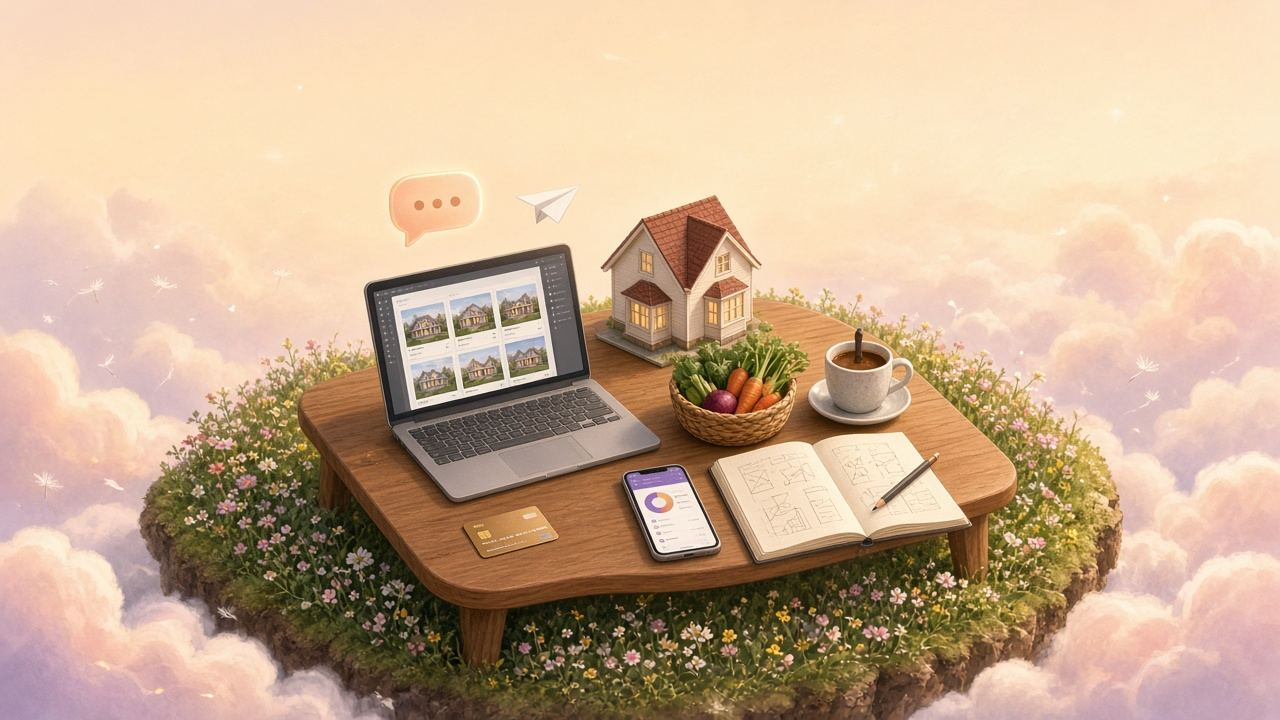
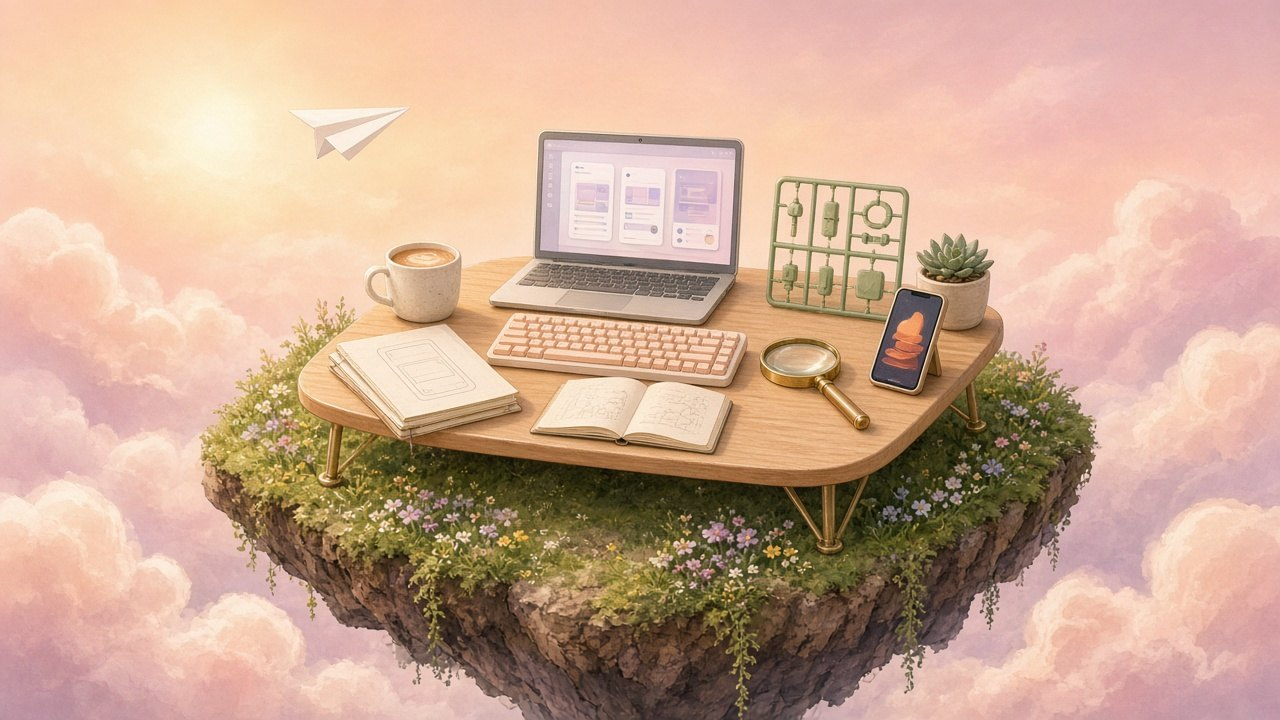
Replace the hero painting and map the ten measured hotspots.
The new desk art fills the hero slot, and each hotspot uses the supplied bounds so the box stays on its object when the scene is scaled or cropped.

diff --git a/index.html b/index.html
@@ -14,7 +14,7 @@
   <meta property="og:image" content="https://suvarnamyneni-project.github.io/assets/art/hero-1280.jpg">
   <meta property="og:image:width" content="1280">
   <meta property="og:image:height" content="720">
-  <meta property="og:image:alt" content="A painted desk on a floating grassy island above the clouds, with a laptop, a house model and a grocery basket.">
+  <meta property="og:image:alt" content="A painted desk on a grassy island under a pink sky, with a laptop, coffee, notebooks, a phone and a plant.">
   <meta property="og:locale" content="en_IN">
   <meta name="twitter:card" content="summary_large_image">
   <meta name="twitter:title" content="Suvarna Myneni, AI-Native UX Designer">
@@ -49,7 +49,7 @@
     .nav-menu { display: flex; align-items: center; gap: 2px; }
     .site-nav a, .nav-toggle { color: #2b3236; text-decoration: none; font: 500 .875rem/1 Switzer, sans-serif; padding: 7px 14px; border-radius: 999px; background: transparent; border: 0; }
     .nav-contact, .nav-toggle, .nav-cv, .nav-cv[hidden] { display: none; }
-    html .hero-stage { position: relative; height: 100vh; height: 100dvh; overflow: hidden; background: #fbf6ee; color: #2b3236; }
+    html .hero-stage { position: relative; height: 100vh; height: 100dvh; overflow: hidden; background: #f1c0af; color: #2b3236; }
     html .scene, html .scene-bob, html .scene-tilt, html .scene-shift, html .scene picture, html .hero-scrim { position: absolute; inset: 0; width: 100%; height: 100%; }
     html .scene img { position: absolute; inset: 0; width: 100%; height: 100%; max-width: none; aspect-ratio: 16 / 9; object-fit: cover; object-position: center center; }
     html .hero-copy { position: absolute; z-index: 3; display: block; grid-template-columns: none; left: 50%; right: auto; transform: translateX(-50%); width: min(920px, calc(100% - 48px)); top: calc(env(safe-area-inset-top) + 104px); text-align: center; }
@@ -71,17 +71,16 @@
     .hover-hint { left: 50%; bottom: calc(108px + env(safe-area-inset-bottom)); transform: translateX(-50%); margin: 0; padding: 7px 12px; border-radius: 999px; font-size: .8rem; font-weight: 600; line-height: 1.2; white-space: nowrap; width: max-content; }
     html.is-stack .scene-bob { animation: none !important; }
     .hotspot { position: absolute; }
-    html .hotspot-laptop { left: 42.2%; top: 40.5%; width: 14.5%; height: 7.6%; }
-    html .hotspot-keys { left: 41.4%; top: 48%; width: 16.2%; height: 6.8%; z-index: 5; }
-    html .hotspot-house { left: 61.5%; top: 36.5%; width: 15.5%; height: 26%; }
-    html .hotspot-chat { left: 66%; top: 32.5%; width: 12%; height: 14%; z-index: 4; }
-    html .hotspot-basket { left: 21.5%; top: 46%; width: 12.5%; height: 20.5%; }
-    html .hotspot-phone { left: 14.5%; top: 44%; width: 9%; height: 16.5%; }
-    html .hotspot-card { left: 74%; top: 51%; width: 9%; height: 15.5%; z-index: 3; }
-    html .hotspot-sketch { left: 44%; top: 57.5%; width: 18%; height: 15.5%; }
-    html .hotspot-coffee { left: 32%; top: 57%; width: 11.5%; height: 11.5%; z-index: 4; }
-    html .hotspot-plants { left: 75.5%; top: 56%; width: 14%; height: 16%; }
-    html .hotspot-plane { left: 16.5%; top: 4.5%; width: 12.5%; height: 12%; }
+    html .hotspot-plane { left: 22.5%; top: 14%; width: 9.7%; height: 8%; }
+    html .hotspot-laptop { left: 38%; top: 18%; width: 20%; height: 26%; }
+    html .hotspot-keys { left: 38%; top: 43.4%; width: 20.4%; height: 10.1%; z-index: 5; }
+    html .hotspot-coffee { left: 28.3%; top: 33.3%; width: 7.8%; height: 11.5%; z-index: 4; }
+    html .hotspot-sketch { left: 25.6%; top: 44.8%; width: 15.2%; height: 16.2%; }
+    html .hotspot-notebook { left: 41.5%; top: 52%; width: 15.6%; height: 11%; z-index: 4; }
+    html .hotspot-glass { left: 59.3%; top: 46.5%; width: 8.7%; height: 13.5%; z-index: 4; }
+    html .hotspot-kit { left: 59.8%; top: 24.3%; width: 11.3%; height: 20%; }
+    html .hotspot-phone { left: 67.9%; top: 39.6%; width: 6%; height: 15.3%; z-index: 5; }
+    html .hotspot-plant { left: 71.5%; top: 32%; width: 6.1%; height: 14%; z-index: 4; }
     .hero-spacer { display: none; }
     .unfold, .veil, .hotspots, .seed-field { position: absolute; inset: 0; pointer-events: none; }
     html.is-stack #unfold { display: none; }
@@ -207,7 +206,7 @@
                 sizes="100vw"
                 width="2400"
                 height="1350"
-                alt="A painted desk on a floating grassy island above the clouds, with a laptop, a house model and a grocery basket."
+                alt="A painted desk on a grassy island under a pink sky, with a laptop, coffee, notebooks, a phone and a plant."
                 fetchpriority="high"
                 decoding="async"
               >
@@ -221,17 +220,16 @@
               </span>
             </div>
             <div class="hotspots">
-              <a class="hotspot hotspot-laptop" href="#work" data-label="Laptop" data-story="Where the work lives. Click to open my selected projects."><span class="sr-only">Laptop. Where the work lives. Click to open my selected projects.</span></a>
-              <a class="hotspot hotspot-keys" href="#work" data-label="Keyboard" data-story="I prototype what I design, in Figma, Lovable and code."><span class="sr-only">Keyboard. I prototype what I design, in Figma, Lovable and code.</span></a>
-              <a class="hotspot hotspot-house" href="#deal-desk" data-card="deal-desk" data-label="House" data-story="Tools for real-estate agents at eXp Realty: +40% daily active users."><span class="sr-only">House. Tools for real-estate agents at eXp Realty: +40% daily active users.</span></a>
-              <a class="hotspot hotspot-chat" href="https://motiveux.wixsite.com/my-exp-case-study" target="_blank" rel="noopener noreferrer" data-label="Mira" data-story="Designing an AI assistant that knows when to hand off to a human."><span class="sr-only">Mira. Designing an AI assistant that knows when to hand off to a human. Opens in a new tab.</span></a>
-              <a class="hotspot hotspot-basket" href="https://myneni.wixsite.com/amazon-fresh" target="_blank" rel="noopener noreferrer" data-label="Basket" data-story="Shop by Recipe at Amazon: +25% average order value."><span class="sr-only">Basket. Shop by Recipe at Amazon: +25% average order value. Opens in a new tab.</span></a>
-              <a class="hotspot hotspot-phone" href="https://myneni.wixsite.com/imobile" target="_blank" rel="noopener noreferrer" data-label="Phone" data-story="Redesigning the iMobile banking app at ICICI Bank."><span class="sr-only">Phone. Redesigning the iMobile banking app at ICICI Bank. Opens in a new tab.</span></a>
-              <a class="hotspot hotspot-card" href="#path-icici" data-path="path-icici" data-label="Card" data-story="Banking UX at ICICI: 15 interviews, 3 personas, tested with 8–10 users."><span class="sr-only">Card. Banking UX at ICICI: 15 interviews, 3 personas, tested with 8–10 users.</span></a>
-              <a class="hotspot hotspot-sketch" href="#path" data-label="Sketchbook" data-story="Postgraduate in Design, Manipal University."><span class="sr-only">Sketchbook. Postgraduate in Design, Manipal University.</span></a>
-              <a class="hotspot hotspot-coffee" href="#contact" data-label="Coffee" data-story="Always up for a chat about design. Say hi."><span class="sr-only">Coffee. Always up for a chat about design. Say hi.</span></a>
-              <a class="hotspot hotspot-plants" href="#about" data-label="Plants" data-story="Growing designers: I've mentored 5 junior designers."><span class="sr-only">Plants. Growing designers: I've mentored 5 junior designers.</span></a>
               <a class="hotspot hotspot-plane" href="#path" data-label="Plane" data-story="Follow the path so far."><span class="sr-only">Plane. Follow the path so far.</span></a>
+              <a class="hotspot hotspot-laptop" href="#work" data-label="Laptop" data-story="Where the work lives. Open my selected projects."><span class="sr-only">Laptop. Where the work lives. Open my selected projects.</span></a>
+              <a class="hotspot hotspot-keys" href="#work" data-label="Keyboard" data-story="I prototype what I design, in Figma, Lovable and code."><span class="sr-only">Keyboard. I prototype what I design, in Figma, Lovable and code.</span></a>
+              <a class="hotspot hotspot-coffee" href="#contact" data-label="Coffee" data-story="Always up for a chat about design. Say hi."><span class="sr-only">Coffee. Always up for a chat about design. Say hi.</span></a>
+              <a class="hotspot hotspot-sketch" href="#path" data-label="Sketchbooks" data-story="Postgraduate in Design, Manipal University."><span class="sr-only">Sketchbooks. Postgraduate in Design, Manipal University.</span></a>
+              <a class="hotspot hotspot-notebook" href="#imobile" data-card="imobile" data-label="Notebook" data-story="Research first: 15 interviews and 3 personas for iMobile."><span class="sr-only">Notebook. Research first: 15 interviews and 3 personas for iMobile.</span></a>
+              <a class="hotspot hotspot-glass" href="https://motiveux.wixsite.com/my-exp-case-study" target="_blank" rel="noopener noreferrer" data-label="Magnifier" data-story="Designing an AI assistant, Mira, that knows when to hand off to a human."><span class="sr-only">Magnifier. Designing an AI assistant, Mira, that knows when to hand off to a human. Opens in a new tab.</span></a>
+              <a class="hotspot hotspot-kit" href="#deal-desk" data-card="deal-desk" data-label="Components" data-story="Design systems for eXp's agent tools: +40% daily active users."><span class="sr-only">Components. Design systems for eXp's agent tools: +40% daily active users.</span></a>
+              <a class="hotspot hotspot-phone" href="https://myneni.wixsite.com/imobile" target="_blank" rel="noopener noreferrer" data-label="Phone" data-story="Redesigning the iMobile banking app at ICICI Bank."><span class="sr-only">Phone. Redesigning the iMobile banking app at ICICI Bank. Opens in a new tab.</span></a>
+              <a class="hotspot hotspot-plant" href="#about" data-label="Plant" data-story="Growing designers: I've mentored 5 junior designers."><span class="sr-only">Plant. Growing designers: I've mentored 5 junior designers.</span></a>
             </div>
           </div>
           </div>
@@ -267,7 +265,7 @@
           <h2 id="work-heading">Selected work</h2>
           <p>Four projects, first to latest.</p>
         </div>
-        <article class="project feature-lead reveal" data-cursor-icon="phone" data-stamp="2018–2020">
+        <article class="project feature-lead reveal" id="imobile" data-cursor-icon="phone" data-stamp="2018–2020">
           <div class="thumb art-slot t1" data-art="imobile">
             <picture>
               <source type="image/webp" srcset="assets/art/imobile.webp">

diff --git a/css/round4.css b/css/round4.css
@@ -1474,17 +1474,16 @@ html.has-spots .hotspot:focus-visible {
   outline: none;
 }
 
-html body .hotspot-laptop { left: 42.2%; top: 40.5%; width: 14.5%; height: 7.6%; }
-html body .hotspot-keys { left: 41.4%; top: 48%; width: 16.2%; height: 6.8%; z-index: 5; }
-html body .hotspot-house { left: 61.5%; top: 36.5%; width: 15.5%; height: 26%; }
-html body .hotspot-chat { left: 66%; top: 32.5%; width: 12%; height: 14%; z-index: 4; }
-html body .hotspot-basket { left: 21.5%; top: 46%; width: 12.5%; height: 20.5%; }
-html body .hotspot-phone { left: 14.5%; top: 44%; width: 9%; height: 16.5%; }
-html body .hotspot-card { left: 74%; top: 51%; width: 9%; height: 15.5%; z-index: 3; }
-html body .hotspot-sketch { left: 44%; top: 57.5%; width: 18%; height: 15.5%; }
-html body .hotspot-coffee { left: 32%; top: 57%; width: 11.5%; height: 11.5%; z-index: 4; }
-html body .hotspot-plants { left: 75.5%; top: 56%; width: 14%; height: 16%; }
-html body .hotspot-plane { left: 16.5%; top: 4.5%; width: 12.5%; height: 12%; }
+html body .hotspot-plane { left: 22.5%; top: 14%; width: 9.7%; height: 8%; }
+html body .hotspot-laptop { left: 38%; top: 18%; width: 20%; height: 26%; }
+html body .hotspot-keys { left: 38%; top: 43.4%; width: 20.4%; height: 10.1%; z-index: 5; }
+html body .hotspot-coffee { left: 28.3%; top: 33.3%; width: 7.8%; height: 11.5%; z-index: 4; }
+html body .hotspot-sketch { left: 25.6%; top: 44.8%; width: 15.2%; height: 16.2%; }
+html body .hotspot-notebook { left: 41.5%; top: 52%; width: 15.6%; height: 11%; z-index: 4; }
+html body .hotspot-glass { left: 59.3%; top: 46.5%; width: 8.7%; height: 13.5%; z-index: 4; }
+html body .hotspot-kit { left: 59.8%; top: 24.3%; width: 11.3%; height: 20%; }
+html body .hotspot-phone { left: 67.9%; top: 39.6%; width: 6%; height: 15.3%; z-index: 5; }
+html body .hotspot-plant { left: 71.5%; top: 32%; width: 6.1%; height: 14%; z-index: 4; }
 
 html.has-motion .hotspot-laptop.is-hinting::after {
   content: "";
@@ -1667,10 +1666,10 @@ html.has-motion .hover-hint {
 
 .screen-glow {
   position: absolute;
-  left: 42.2%;
-  top: 40.5%;
-  width: 14.5%;
-  height: 7.6%;
+  left: 40.5%;
+  top: 21%;
+  width: 15%;
+  height: 18%;
   border-radius: 8px;
   background: radial-gradient(ellipse at center, rgba(255, 244, 214, 0.95), rgba(255, 196, 120, 0.2) 68%, transparent 76%);
   opacity: 0;
@@ -1684,8 +1683,8 @@ html.has-motion .hover-hint {
 
 .steam {
   position: absolute;
-  left: 36%;
-  top: 54.5%;
+  left: 31.6%;
+  top: 31.7%;
   width: 22px;
   height: 36px;
 }

diff --git a/js/main.js b/js/main.js
@@ -1,10 +1,11 @@
 /**
  * Laptop screen as percentages of assets/art/hero.webp.
- * The painted laptop sits near the middle of the island.
- * ROOF_TOP is the peak of the house roof, which has to stay below the bio.
+ * DESK_TOP / DESK_BOTTOM bound the painted objects (laptop through notebook).
+ * At rest the headline sits in the sky and that band stays inside the viewport.
  */
-const LAPTOP_SCREEN = { x: 42, y: 50, w: 15, h: 13 };
-const ROOF_TOP = 27;
+const LAPTOP_SCREEN = { x: 40.5, y: 21, w: 15, h: 18 };
+const DESK_TOP = 18;
+const DESK_BOTTOM = 64;
 
 const ZOOM_SCREENS = { desktop: 1.35, mobile: 0.85 };
 const MOBILE_QUERY = "(max-width: 759px)";
@@ -343,15 +344,20 @@ function initZoom() {
     const mobile = isMobile();
     const eased = smoothstep(0, 1, amount);
     const target = mobile ? Math.min(metrics.scaleToFill, 1.45) : metrics.scaleToFill;
-    /* Scale around the top of the painting until the roof clears the bio.
-       The zoom then eases from that rest frame into the laptop. */
+    /* Fit the desk between the bio and the bottom of the hero, then zoom into the laptop. */
     const copyBottom = copy.getBoundingClientRect().bottom - hero.getBoundingClientRect().top;
-    const clearance = copyBottom + 36;
-    const roofSpan = metrics.imageHeight * (ROOF_TOP / 100);
-    const restScale = Math.max(1, clearance / roofSpan);
+    const gap = 28;
+    const bottomMargin = 12;
+    const band = (DESK_BOTTOM - DESK_TOP) / 100;
+    const room = metrics.height - copyBottom - gap - bottomMargin;
+    const restScale = Math.max(1, room / (metrics.imageHeight * band));
     const scale = restScale + (target - restScale) * eased;
     const restX = (metrics.width - metrics.imageWidth * restScale) / 2;
-    const restY = 0;
+    let restY = copyBottom + gap - metrics.imageHeight * restScale * (DESK_TOP / 100);
+    const deskBottomY = restY + metrics.imageHeight * restScale * (DESK_BOTTOM / 100);
+    const limit = metrics.height - bottomMargin;
+    if (deskBottomY > limit) restY -= deskBottomY - limit;
+    if (restY < 0) restY = 0;
     const zoomX = metrics.width / 2 - metrics.screenX * target;
     const zoomY = metrics.height / 2 - metrics.screenY * target;
     let x = restX + (zoomX - restX) * eased;

diff --git a/css/effects.css b/css/effects.css
@@ -211,31 +211,19 @@ html.has-motion.is-zooming .scene-bob {
   border-radius: 16px;
 }
 
-.hotspot-laptop { left: 42%; top: 50%; width: 16%; height: 16%; }
-.hotspot-house { left: 60%; top: 47%; width: 14%; height: 18%; }
-.hotspot-basket { left: 26%; top: 54%; width: 13%; height: 15%; }
-.hotspot-coffee { left: 36%; top: 61%; width: 8%; height: 10%; }
-.hotspot-sketch { left: 50%; top: 64%; width: 13%; height: 12%; }
-.hotspot-phone { left: 18%; top: 60%; width: 8%; height: 13%; }
-.hotspot-card { left: 72%; top: 58%; width: 9%; height: 9%; }
-.hotspot-chat { left: 56%; top: 40%; width: 11%; height: 12%; }
-
-.hotspot-plane {
-  left: 8%;
-  top: 16%;
-  width: 12%;
-  height: 14%;
-}
+.hotspot-plane { left: 22.5%; top: 14%; width: 9.7%; height: 8%; }
+.hotspot-laptop { left: 38%; top: 18%; width: 20%; height: 26%; }
+.hotspot-keys { left: 38%; top: 43.4%; width: 20.4%; height: 10.1%; }
+.hotspot-coffee { left: 28.3%; top: 33.3%; width: 7.8%; height: 11.5%; }
+.hotspot-sketch { left: 25.6%; top: 44.8%; width: 15.2%; height: 16.2%; }
+.hotspot-notebook { left: 41.5%; top: 52%; width: 15.6%; height: 11%; }
+.hotspot-glass { left: 59.3%; top: 46.5%; width: 8.7%; height: 13.5%; }
+.hotspot-kit { left: 59.8%; top: 24.3%; width: 11.3%; height: 20%; }
+.hotspot-phone { left: 67.9%; top: 39.6%; width: 6%; height: 15.3%; }
+.hotspot-plant { left: 71.5%; top: 32%; width: 6.1%; height: 14%; }
 
 .plane-icon {
   transform: rotate(-8deg);
-}
-
-.hotspot-notebook {
-  left: 66%;
-  top: 52%;
-  width: 11%;
-  height: 13%;
 }
 
 .notebook-icon {

diff --git a/js/effects.js b/js/effects.js
@@ -167,17 +167,16 @@
   }
 
   const SPOT_BOXES = {
-    laptop: [42.2, 40.5, 14.5, 7.6],
-    keys: [41.4, 48, 16.2, 6.8],
-    house: [61.5, 36.5, 15.5, 26],
-    chat: [66, 32.5, 12, 14],
-    basket: [21.5, 46, 12.5, 20.5],
-    phone: [14.5, 44, 9, 16.5],
-    card: [74, 51, 9, 15.5],
-    sketch: [44, 57.5, 18, 15.5],
-    coffee: [32, 57, 11.5, 11.5],
-    plants: [75.5, 56, 14, 16],
-    plane: [16.5, 4.5, 12.5, 12],
+    plane: [22.5, 14, 9.7, 8],
+    laptop: [38, 18, 20, 26],
+    keys: [38, 43.4, 20.4, 10.1],
+    coffee: [28.3, 33.3, 7.8, 11.5],
+    sketch: [25.6, 44.8, 15.2, 16.2],
+    notebook: [41.5, 52, 15.6, 11],
+    glass: [59.3, 46.5, 8.7, 13.5],
+    kit: [59.8, 24.3, 11.3, 20],
+    phone: [67.9, 39.6, 6, 15.3],
+    plant: [71.5, 32, 6.1, 14],
   };
 
   function coverBox(img) {
@@ -221,7 +220,7 @@
     });
     const glow = document.querySelector(".screen-glow");
     if (glow) {
-      const placed = mapSpot(box, ...SPOT_BOXES.laptop);
+      const placed = mapSpot(box, 40.5, 21, 15, 18);
       glow.style.left = `${placed.left}%`;
       glow.style.top = `${placed.top}%`;
       glow.style.width = `${placed.width}%`;
